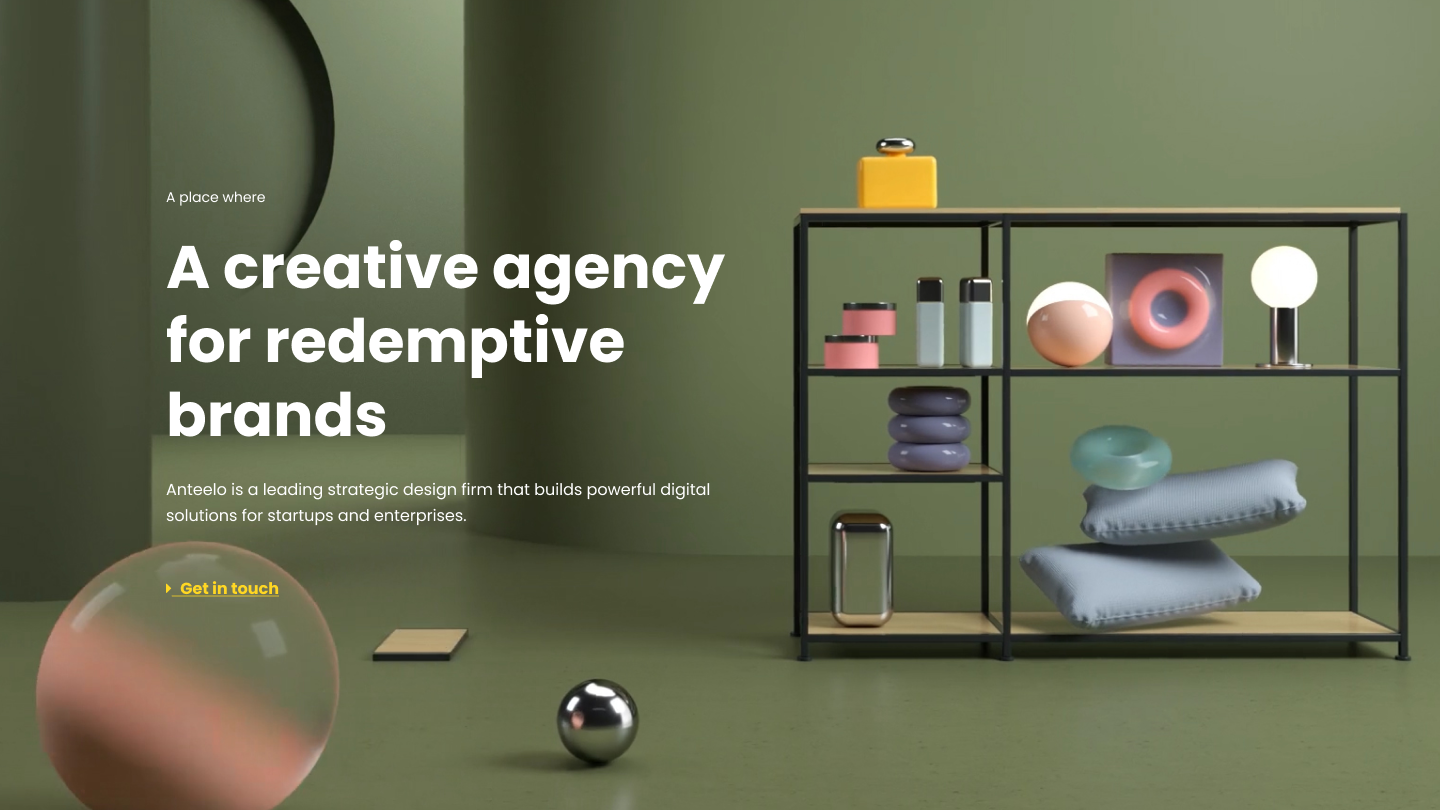
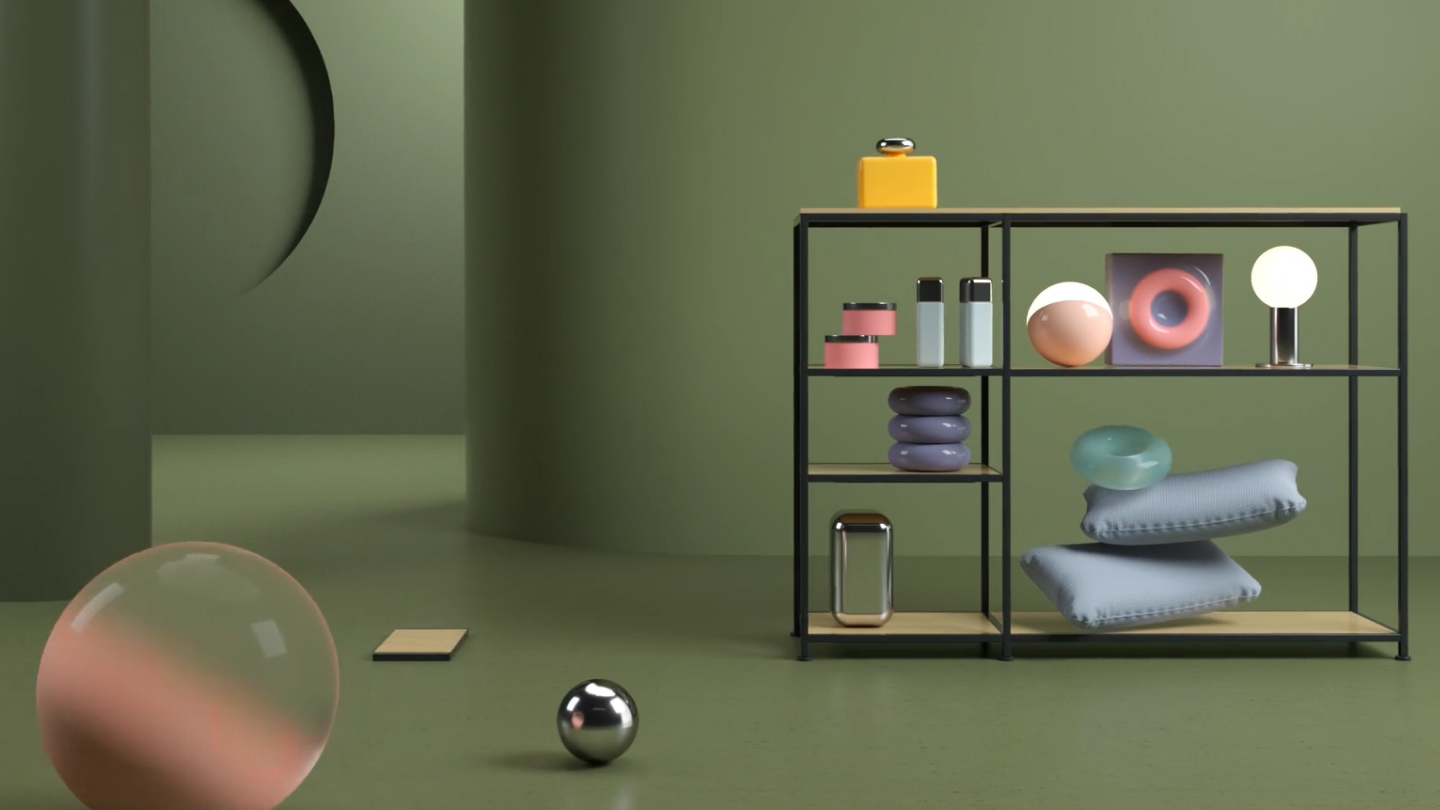
header content

diff --git a/src/html/_header.htm b/src/html/_header.htm
@@ -5,13 +5,24 @@
 			<button type="button" class="menu__icon icon-menu"><span></span></button>
 			<nav class="menu__body">
 				<ul class="menu__list">
-					<li class="menu__item"><a href="#" class="menu__link">About</a></li>
 					<li class="menu__item"><a href="#" class="menu__link">Price</a></li>
+					<li class="menu__item"><a href="#" class="menu__link">About</a></li>
 					<li class="menu__item"><a href="#" class="menu__link">Download</a></li>
 					<li class="menu__item"><a href="#" class="menu__link">Links</a></li>
 					<li class="menu__item"><a href="#" class="menu__link">Products</a></li>
 				</ul>
 			</nav>
 		</div>
+	</div>
+	<div class="header__container">
+		<section class="header__content content-block">
+			<div class="content-block__container">
+				<p class="content-block__min-title">A place where</p>
+				<h1 class="content-block__title">A creative agency for redemptive brands</h1>
+				<p class="content-block__text">Anteelo is a leading strategic design firm that builds powerful digital
+					solutions for startups and enterprises.</p>
+				<a href="#" class="content-block__link">Get in touch</a>
+			</div>
+		</section>
 	</div>
 </header>

diff --git a/src/home.html b/src/home.html
@@ -7,6 +7,7 @@
 		<div class="wrapper">
 			@@include('html/_header.htm',{})
 			<main class="page">
+
 			</main>
 			@@include('html/_footer.htm',{})
 		</div>
